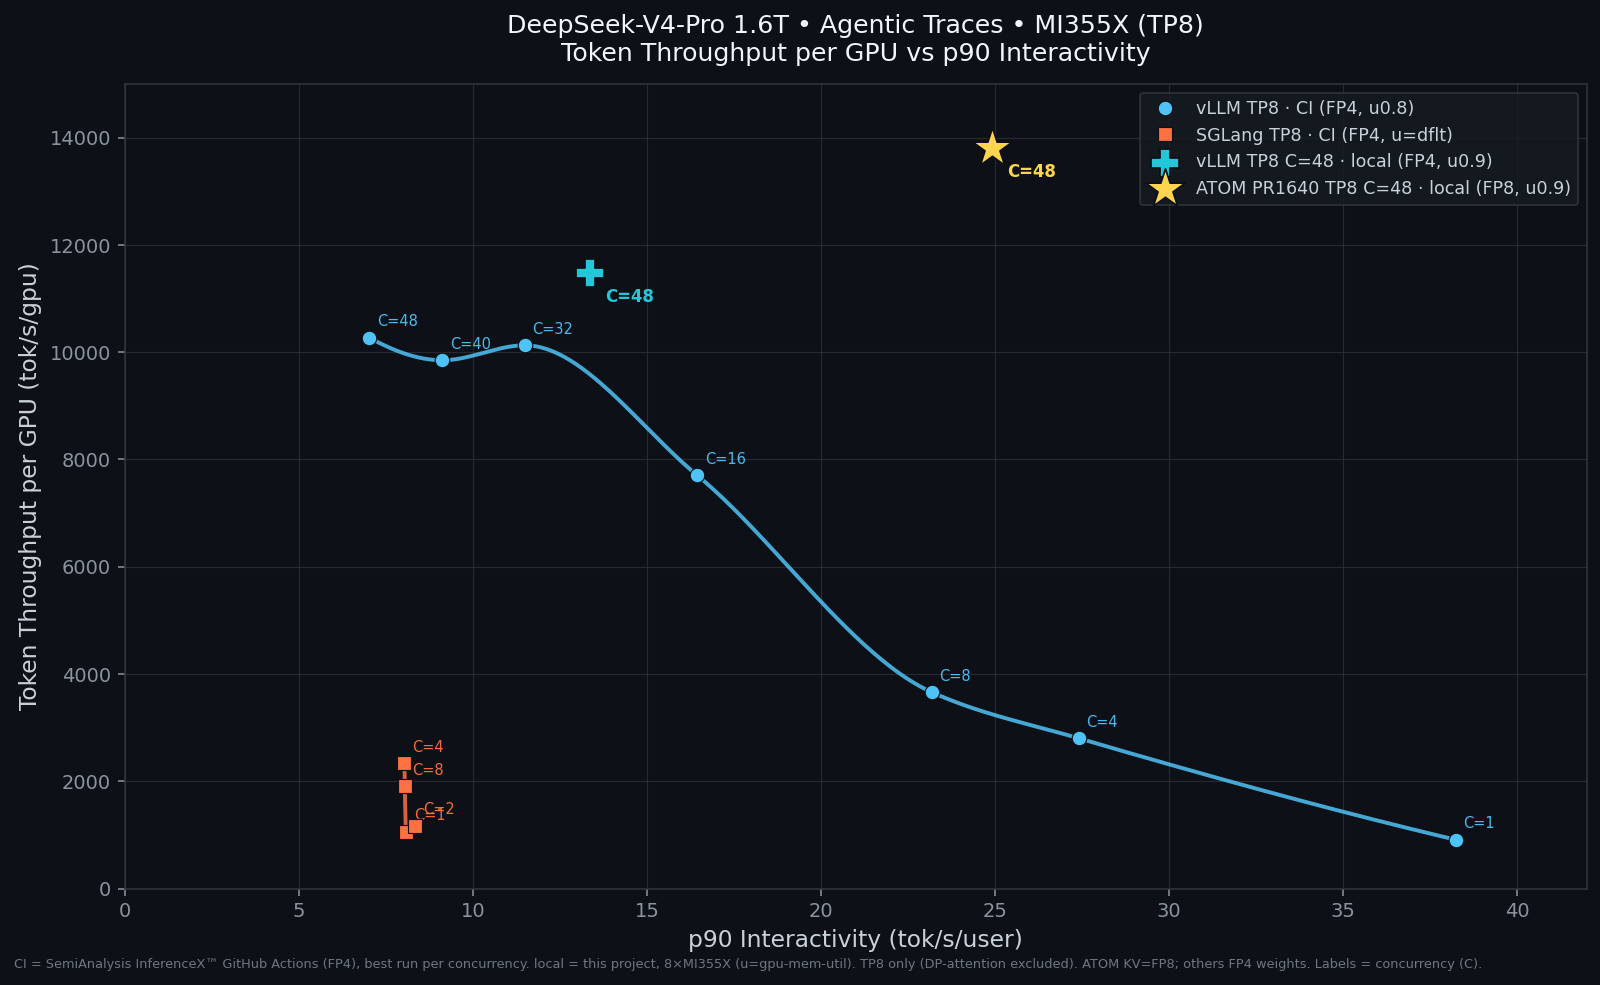
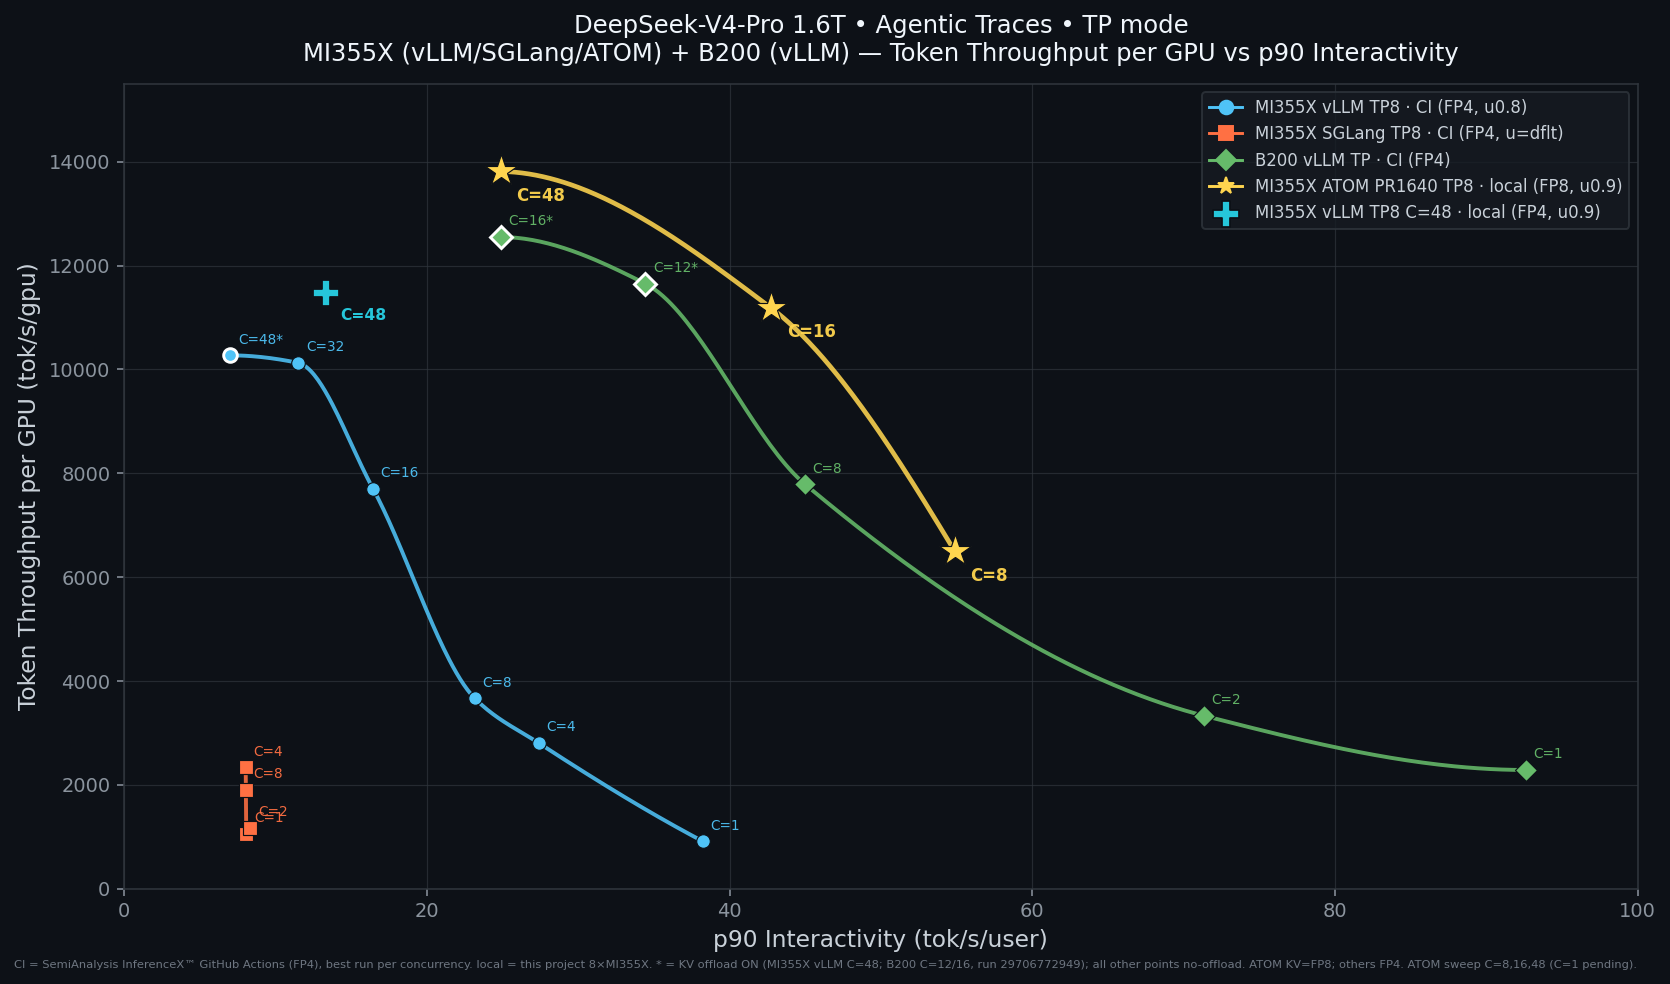
[Recipe] DeepSeek-V4 agentic: add B200 vLLM ref + ATOM concurrency sweep
- Add B200 (NVIDIA) vLLM TP agentic reference series (FP4, run 29706772949,
  conc 1/2/8/12/16; KV offload on for C=12/16, marked).
- Add ATOM PR1640 local concurrency sweep C=8/16/48 (C=1 pending) forming the
  throughput/GPU-vs-interactivity tradeoff curve; ATOM (FP8, no offload) sits
  above the B200 vLLM curve in the overlapping interactivity range.
- Mark all KV-offload points explicitly; MI355X/ATOM otherwise no-offload.
- Drop redundant MI355X vLLM C=40 point. Refresh chart.

diff --git a/recipes/DeepSeek-V4-Agentic-Benchmark.md b/recipes/DeepSeek-V4-Agentic-Benchmark.md
@@ -24,14 +24,15 @@ sparse-checkpoint feature in this PR targets.
 
 ### CI data provenance
 Read from the SemiAnalysis dashboard API (`/api/v1/benchmarks?model=DeepSeek-V4-Pro`,
-filtered `hardware=mi355x, benchmark_type=agentic_traces, precision=fp4,
-decode_dp_attention=false`). Each series' points come from a single GitHub
-Actions run:
+filtered `hardware in {mi355x,b200}, benchmark_type=agentic_traces, precision=fp4,
+decode_dp_attention=false`, best run per concurrency). Each series comes from a
+single GitHub Actions run (B200 = run 29706772949, conc 1/2/8/12/16):
 
 | Series | Date | Server image | GitHub Actions run |
 |---|---|---|---|
 | vLLM TP8 (CI) | 2026-07-09 | `vllm/vllm-openai-rocm:nightly-09663abde0f5…` | https://github.com/SemiAnalysisAI/InferenceX/actions/runs/28911223583/attempts/3 |
 | SGLang TP8 (CI) | 2026-07-16 | `lmsysorg/sglang-rocm:v0.5.14-rocm720-mi35x-20260710` | https://github.com/SemiAnalysisAI/InferenceX/actions/runs/29413860950/attempts/3 |
+| B200 vLLM TP (CI) | 2026-07-21 | `vllm/vllm-openai:nightly-dev-x86_64-cu13.0.1-904e4ec` | https://github.com/SemiAnalysisAI/InferenceX/actions/runs/29706772949/attempts/3 |
 
 Interactive dashboard (all vendors/frameworks, updated continuously):
 https://inferencex.semianalysis.com/inference
@@ -44,7 +45,6 @@ https://inferencex.semianalysis.com/inference
 | 8 | 3,662 | 23.17 | 2.20 s | 106.6 s |
 | 16 | 7,705 | 16.44 | 2.79 s | 126.2 s |
 | 32 | 10,128 | 11.49 | 3.26 s | 154.8 s |
-| 40 | 9,849 | 9.12 | 3.50 s | 185.6 s |
 | 48 | 10,273 | 7.01 | 4.96 s | 217.5 s |
 
 ## MI355X SGLang — CI (FP4, util = engine default, TP8)
@@ -57,6 +57,24 @@ https://inferencex.semianalysis.com/inference
 
 (SGLang's pure-TP8 interactivity saturates ~8 tok/s/user; its high-throughput
 DP-attention configs are intentionally excluded here.)
+
+## B200 vLLM — CI (FP4, TP) — cross-hardware reference (NVIDIA)
+Single CI run `29706772949` (2026-07-21), conc 1/2/8/12/16. **KV offload is ON
+for C=12/16** (only variant in that run); C=1/2/8 are no-offload.
+
+| Conc | tput/GPU | p90 intvty | p90 TTFT | p90 E2E | offload |
+|--:|--:|--:|--:|--:|:--:|
+| 1 | 2,284 | 92.59 | 1.54 s | 33.0 s | off |
+| 2 | 3,330 | 71.33 | 3.79 s | 34.7 s | off |
+| 8 | 7,791 | 44.98 | 0.93 s | 49.1 s | off |
+| 12 | 11,653 | 34.44 | 1.04 s | 51.7 s | **on** |
+| 16 | 12,552 | 24.88 | 1.50 s | 74.1 s | **on** |
+
+B200 (NVIDIA) reaches much higher interactivity than MI355X (faster per-GPU),
+peaking ~11.7–12.6k tok/s/gpu at C=12/16 (**with KV offload**). At the same
+interactivity (~24.9), **MI355X ATOM PR1640 C=48 = 13.8k tok/s/gpu, no offload,
+edges out B200 vLLM C=16 = 12.6k (offload on)**. FP4 weights; DP-attention
+excluded.
 
 ## c48 head-to-head — agentic, TP8 (all DSV4-Pro, EP1, c=48)
 
@@ -82,6 +100,23 @@ late-profile prefix metric (approximate); ATOM = `ATOM_DEBUG_PREFIX_HITS`
 CacheStats (ss = steady-state). ATOM PR1640 (TP8, C=48) lands at **13.8k
 tok/s/gpu** — above local vLLM 0.9 (11.5k) and the SA-CI/0.8 runs — at
 comparable/better latency, with realized prefix-cache hit ~94% (vs 13% pre-fix).
+
+## ATOM PR1640 concurrency sweep (local, TP8, FP8 KV, util 0.9)
+
+The gold curve in the chart. Same config at each concurrency (sparse-32k SWA
+retention, full 3600 s profile, `AIPERF_HTTP_TCP_USER_TIMEOUT=900000`). Higher
+concurrency → higher aggregate throughput/GPU but lower per-user interactivity.
+
+| Conc | req/s | tput/GPU | input tok/s | output tok/s | TTFT p50 | ITL p50 | p90 intvty | realized prefix hit | errors |
+|--:|--:|--:|--:|--:|--:|--:|--:|--:|--:|
+| 8 | 0.388 | 6,497 | 51,627 | 351.6 | 1.05 s | 22.6 ms | 54.88 | 96.4% | 0/1408 |
+| 16 | 0.501 | 11,182 | 88,982 | 471.5 | 1.32 s | 29.8 ms | 42.76 | 96.4% | 1/1825 |
+| 48 | 0.776 | 13,816 | 109,848 | 680.4 | 1.99 s | 54.7 ms | 24.9 | 94.1% (95–96% ss) | 2/2825 |
+| 1 | _running_ | — | — | — | — | — | — | — | — |
+
+Higher concurrency → higher aggregate tput/GPU but lower per-user interactivity.
+Realized prefix hit stays ~96% at C=8/16 and ~94% at C=48 (lower concurrency =
+less live-window churn, so more checkpoints survive). (C=1 appended when done.)
 
 ## How to run
 